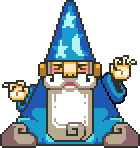
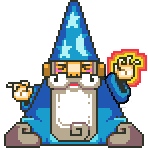
Movimento mago finito ma non convinve troppo quando ri-inizi una partita dopo un game over non si aggiorna l'immagine del mago

Changed region(s): [[0.0, 0.0, 1.0, 1.0], [0.4571, 0.8378, 0.4857, 0.9189], [0.5143, 0.1622, 0.5429, 0.1892]]

diff --git a/src/view/BoardPanel.java b/src/view/BoardPanel.java
@@ -61,6 +61,9 @@ public class BoardPanel extends JPanel implements KeyListener {
     public static int altezza = 680;
     private final static Dimension PREFERRED_SIZE = new Dimension(larghezza,altezza);
     int a=0;
+    
+    public static int xMagoMax ;
+    public static int xMagoMin ;
 
     public BoardPanel() {
 
@@ -99,28 +102,36 @@ public class BoardPanel extends JPanel implements KeyListener {
             return PREFERRED_SIZE;
     }
     
-    int xMago= 50;
-    int xfasullo=1;
+    int xMago= larghezza/2;
+    int direzioneMago=1;
+    
+    
     @Override
     public void paintComponent(Graphics g) {
 
-     /*   if (xMago> getWidth() - 100)
-            xMago-=2;   */
-        if (xMago == getWidth() - 150)
-            xfasullo=-1;
-        if (xMago == 49)
-            xfasullo=+1;
         
         
-            xMago+=xfasullo;
+        if (xMago == xMagoMax ){
+            direzioneMago=-1;
+            mago = arrayMago[0];
+        }
+        if (xMago == xMagoMin){
+            direzioneMago=+1;
+            mago = arrayMago[0];
+        }
+        
+            xMago+=direzioneMago;       
             
         
         super.paintComponent(g);
+        
+        
+        
         g.drawImage(sfondo,0,0,getWidth(),getHeight(),null);
         g.drawImage(mago,xMago,getHeight()-145,100,108,null);
         if(giocoiniziato==true) {
 
-           
+            
             
             t1 = System.currentTimeMillis()-P;
             diff = t1 - t0;
@@ -197,7 +208,8 @@ public class BoardPanel extends JPanel implements KeyListener {
                                 cavalieri[i]=Cavaliere.nextCavaliere();
                                 scoppio.play();
                                 
-                                gestisciMago();
+                                gestisciMago(i);
+                                
                                 
                                 Model.getInstance().incrementScore();
                                 updateScoreLabel(Model.getInstance().getScore());
@@ -220,7 +232,7 @@ public class BoardPanel extends JPanel implements KeyListener {
                                 cavalieri[i]=Cavaliere.nextCavaliere();
                                 scoppio.play();
                                 
-                                 gestisciMago();
+                                 gestisciMago(i);
                                  
                                 Model.getInstance().incrementScore();
                                 updateScoreLabel(Model.getInstance().getScore());
@@ -242,7 +254,7 @@ public class BoardPanel extends JPanel implements KeyListener {
                                 cavalieri[i]=Cavaliere.nextCavaliere();
                                 scoppio.play();
                                 
-                                 gestisciMago();
+                                 gestisciMago(i);
                                  
                                 Model.getInstance().incrementScore();
                                 updateScoreLabel(Model.getInstance().getScore());
@@ -264,7 +276,7 @@ public class BoardPanel extends JPanel implements KeyListener {
                                 cavalieri[i]=Cavaliere.nextCavaliere();
                                 scoppio.play();
                                 
-                                 gestisciMago();
+                                 gestisciMago(i);
                                  
                                 Model.getInstance().incrementScore();
                                 updateScoreLabel(Model.getInstance().getScore());
@@ -286,7 +298,7 @@ public class BoardPanel extends JPanel implements KeyListener {
                                 cavalieri[i]=Cavaliere.nextCavaliere();
                                 scoppio.play();
                                 
-                                 gestisciMago();
+                                 gestisciMago(i);
                                  
                                 Model.getInstance().incrementScore();
                                 updateScoreLabel(Model.getInstance().getScore());
@@ -308,7 +320,7 @@ public class BoardPanel extends JPanel implements KeyListener {
                                 cavalieri[i]=Cavaliere.nextCavaliere();
                                 scoppio.play();
                                 
-                                 gestisciMago();
+                                 gestisciMago(i);
                                  
                                 Model.getInstance().incrementScore();
                                 updateScoreLabel(Model.getInstance().getScore());
@@ -330,7 +342,7 @@ public class BoardPanel extends JPanel implements KeyListener {
                                 cavalieri[i]=Cavaliere.nextCavaliere();
                                 scoppio.play();
                                 
-                                 gestisciMago();
+                                 gestisciMago(i);
                                  
                                  
                                 Model.getInstance().incrementScore();
@@ -353,7 +365,7 @@ public class BoardPanel extends JPanel implements KeyListener {
                                 cavalieri[i]=Cavaliere.nextCavaliere();
                                 scoppio.play();
                                 
-                                 gestisciMago();
+                                 gestisciMago(i);
                                  
                                 Model.getInstance().incrementScore();
                                 updateScoreLabel(Model.getInstance().getScore());
@@ -375,7 +387,7 @@ public class BoardPanel extends JPanel implements KeyListener {
                                 cavalieri[i]=Cavaliere.nextCavaliere();
                                 scoppio.play();
                                 
-                                 gestisciMago();
+                                 gestisciMago(i);
                                  
                                 Model.getInstance().incrementScore();
                                 updateScoreLabel(Model.getInstance().getScore());
@@ -397,7 +409,7 @@ public class BoardPanel extends JPanel implements KeyListener {
                                 cavalieri[i]=Cavaliere.nextCavaliere();
                                 scoppio.play();
                                 
-                                 gestisciMago();
+                                 gestisciMago(i);
                                  
                                 Model.getInstance().incrementScore();
                                 updateScoreLabel(Model.getInstance().getScore());
@@ -426,13 +438,32 @@ public class BoardPanel extends JPanel implements KeyListener {
 
     }
 
-    int i =0;
-    public BufferedImage gestisciMago(){
-        i= (i+1)%3;
-       
+   
+    public BufferedImage gestisciMago(int c){
+        int i;
+        
+        
+        i= movimentoMago(c);
         return mago = arrayMago[i];
     }
     
+    public int movimentoMago(int i){
+        int imgMago = 0;
+        if(xMago < x[i] ){
+            imgMago = 1;
+            xMagoMax = x[i]+10;
+            direzioneMago=+1;
+        }
+        if(xMago > x[i] ){
+            imgMago = 2;
+            xMagoMin=x[i]-10;
+            direzioneMago=-1;
+        }
+        
+        return imgMago;
+        
+    }
     
+   
     
 } // end class

diff --git a/src/view/MainGUI.java b/src/view/MainGUI.java
@@ -26,6 +26,13 @@ import javax.swing.Timer;
 import model.Cavaliere;
 import static model.Cavaliere.Loader;
 import model.Model;
+
+
+import static view.BoardPanel.larghezza;
+import static view.BoardPanel.xMagoMax;
+import static view.BoardPanel.xMagoMin;
+
+
 import static view.RightPanel.scorelabel;
 
 
@@ -175,10 +182,12 @@ public class MainGUI extends JFrame implements ActionListener  {
             timer.start();
             giocoiniziato = true;
             t0 = System.currentTimeMillis();
-            return giocoiniziato;
+           
+            
+            xMagoMax = larghezza-200 ;        
+            xMagoMin = 100;
 
-
-
+             return giocoiniziato;
         }
     public static Boolean  PausaGioco(){
                 timer.stop();

diff --git a/src/model/Model.java b/src/model/Model.java
@@ -86,15 +86,7 @@ public class Model implements IModel {
       
                 t0=t1=P=Pi=Pf=0;
                 movimento=1;
-                //jButton1.setIcon(new javax.swing.ImageIcon(getClass().getResource("/immagini/gioca.png")));
-		//jButton2.setEnabled(true);
                 
-		//this.initBoardArray(DEFAULT_NUM_ROWS, DEFAULT_NUM_COLUMNS);
-		//this.iIndex = I_INDEX_INIT;
-		//this.jIndex = J_INDEX_INIT;
-		//this.previewPiece = Piece.randomPreviewPiece();
-		//this.fallingPiece = Cavaliere.nextFallingPiece();
-		//this.previewPiece = Piece.randomPreviewPiece();
 	}
         
     public int getScore() {
